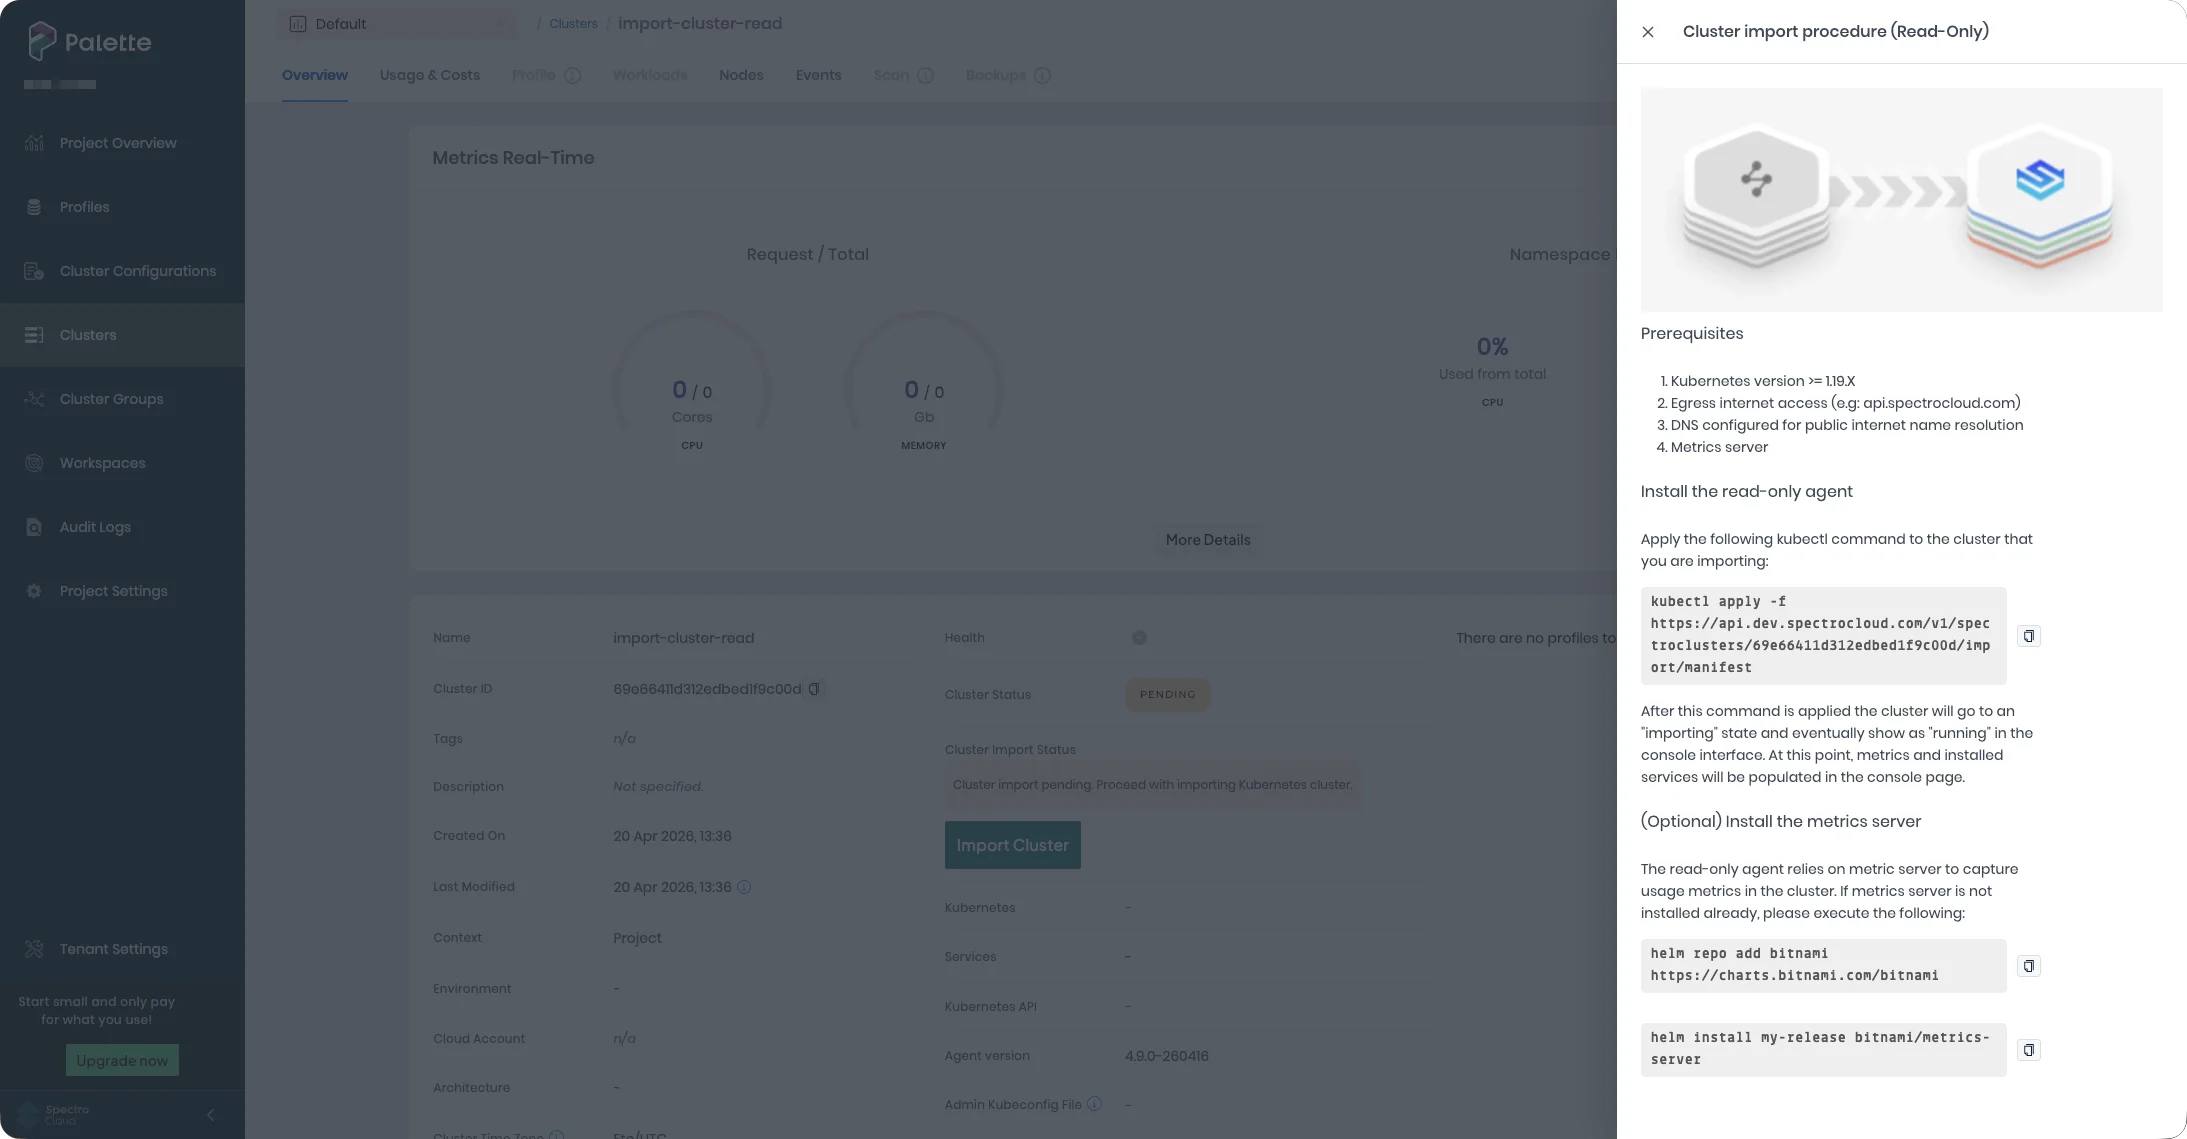
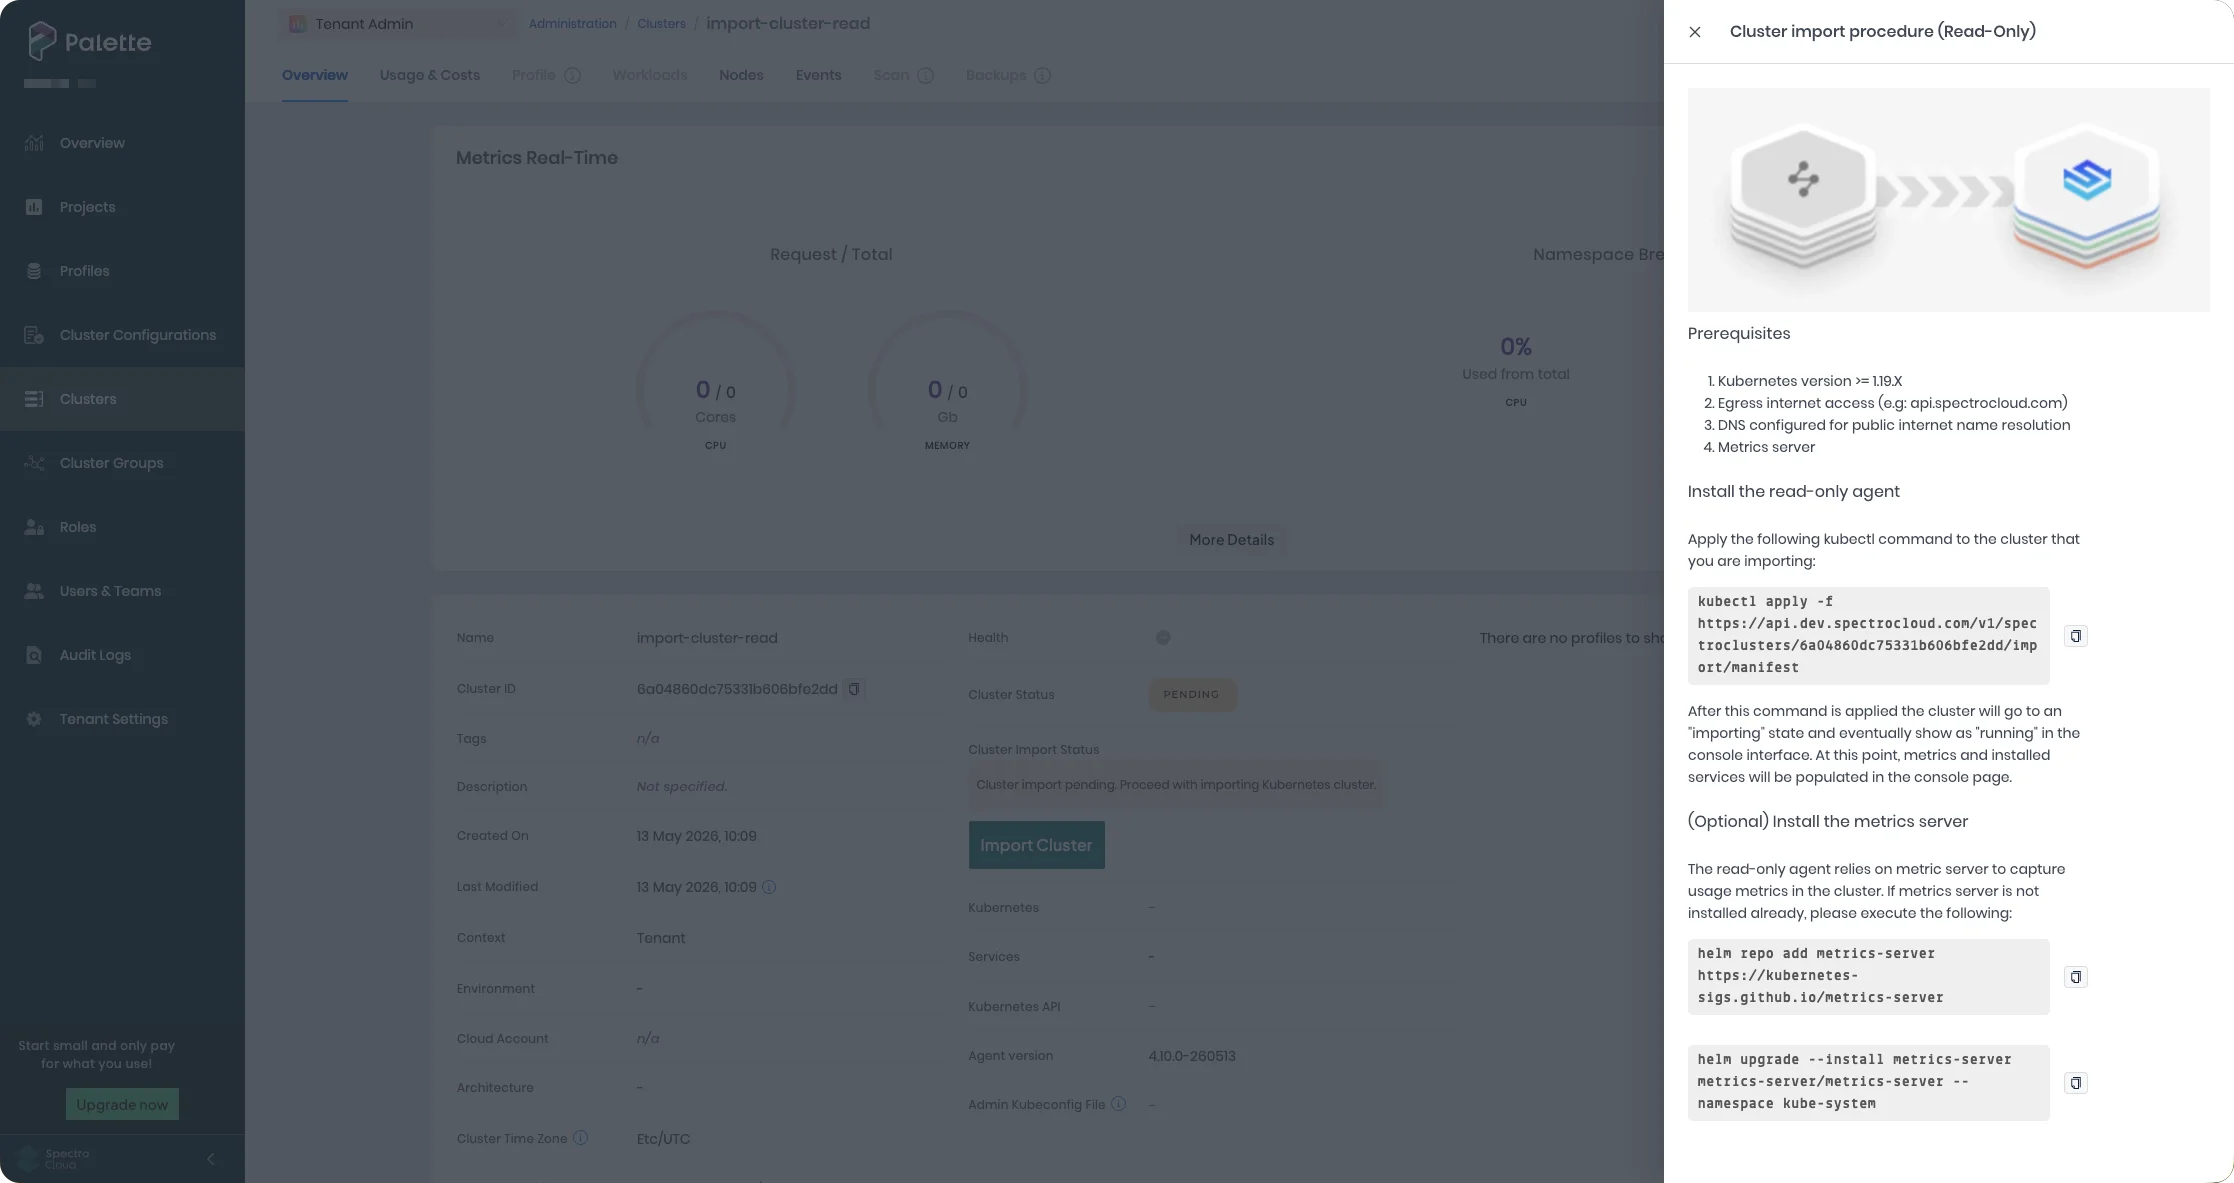
docs: DOC-2788: Updated Metrics Server Helm Chart for Imported Clusters (#10404)
* docs: DOC-2788: Updated Metrics Server Helm Chart for Imported Clusters

* Empty commit to trigger netlify preview

* Optimised images with calibre/image-actions

* Apply suggestions from code review

* ci: auto-formatting prettier issues

* Apply suggestions from code review

* ci: auto-formatting prettier issues

* Minor adjustments

---------

Pull request: docs: DOC-2788: Updated Metrics Server Helm Chart for Imported Clusters
# ✅ Pull Request Checklist

Before submitting your PR for review, please complete this checklist to ensure quality.

## Checklist

- [x] The **PR description** in the [Describe the Change](#-describe-the-change) section explains what changed and
      provides any additional context.
- [x] A **Jira ticket** is provided in the [Jira Tickets](#-jira-tickets) section AND in the PR title. _If this PR has
      no corresponding Jira ticket, then please indicate so in this section._
- [x] **Preview links** are for all affected pages are provided in the [Changed Pages](#-changed-pages). _If this PR
      makes no user-facing changes, please indicate so in this section._
- [x] Conduct a **self-review** for your pages using your preview links. Verify grammar, clarity, and accuracy.
- [x] **Check formatting** for your pages
  - [x] Verify indentations, admonitions, and tables (if applicable).
  - [x] Verify all images display.
- [x] Ensure all **Vale comments** are resolved.
  - [ ] If required, raise a PR to modify the
        [Vale accept list](https://github.com/spectrocloud/spectro-vale-pkg/blob/main/packages/spectrocloud-docs-internal/styles/config/vocabularies/spectrocloud-vocab/accept.txt).
        _This can be done later, but leave a note if required._
- [x] All **CI jobs** have completed successfully.
- [ ] Add **Backport labels** if the change should be reflected in previous versions. _If required, remember to add the
[…]

diff --git a/docs/docs-content/clusters/imported-clusters/cluster-import.md b/docs/docs-content/clusters/imported-clusters/cluster-import.md
@@ -167,6 +167,13 @@ about each mode.
    to install a metrics server automatically. If your cluster does not already have a metrics server, you can install
    one manually. Any implementation that serves the Kubernetes Metrics API is compatible.
 
+   :::warning
+
+   Without a metrics server, Palette cannot display cluster resource metrics. Other functionality such as event logs,
+   health checks, and cost data is not affected.
+
+   :::
+
    To verify if your cluster has the Kubernetes Metrics API installed, run the following command.
 
    ```shell
@@ -188,21 +195,28 @@ about each mode.
    import-cluster-palette-control-plane   212m         2%       1607Mi          20%
    ```
 
-   If your cluster does not have a metrics server installed, you can use the following command to install the Kubernetes
-   metrics-server Helm chart. The `--kubelet-insecure-tls` argument is required for clusters that use self-signed
-   Kubelet certificates, which is common for self-managed clusters.
+   If your cluster does not have a metrics server installed, use the **(Optional) Install the metrics server** commands
+   displayed in the drawer to install the Kubernetes Metrics Server Helm chart.
 
-   ```shell
+   :::warning
+
+   Add the line `--set args='{--kubelet-insecure-tls}'` to the command if your cluster uses self-signed Kubelet
+   certificates, which is common for self-managed clusters.
+
+   ```shell {4}
    helm repo add metrics-server https://kubernetes-sigs.github.io/metrics-server/
-   helm install metrics-server metrics-server/metrics-server \
+   helm upgrade --install metrics-server metrics-server/metrics-server \
       --namespace kube-system \
       --set args='{--kubelet-insecure-tls}'
    ```
 
-   :::warning
+   If you do not use the `--kubelet-insecure-tls` argument and you have self-signed Kubelet certificates, the metrics
+   API server will not respond. This is indicated with the output `False (MissingEndpoints)` when running the command
+   `kubectl get apiservices | grep metrics`.
 
-   Without a metrics server, Palette cannot display cluster resource metrics. Other functionality such as event logs,
-   health checks, and cost data is not affected.
+   ```shell title="Example of a non-responsive metrics server" hideClipboard
+   v1beta1.metrics.k8s.io    kube-system/metrics-server   False (MissingEndpoints)   7m26s
+   ```
 
    :::
 

diff --git a/docs/docs-content/release-notes/release-notes.md b/docs/docs-content/release-notes/release-notes.md
@@ -25,6 +25,12 @@ tags: ["release-notes"]
 
 #### Improvements
 
+<!-- https://spectrocloud.atlassian.net/browse/DOC-2788 -->
+
+- The metrics server commands for
+  [imported read-only clusters](../clusters/imported-clusters/cluster-import.md#read-only-mode) now use the
+  [Kubernetes Metrics Server](https://kubernetes-sigs.github.io/metrics-server/) Helm chart instead of Bitnami.
+
 #### Deprecations and Removals
 
 ### Edge